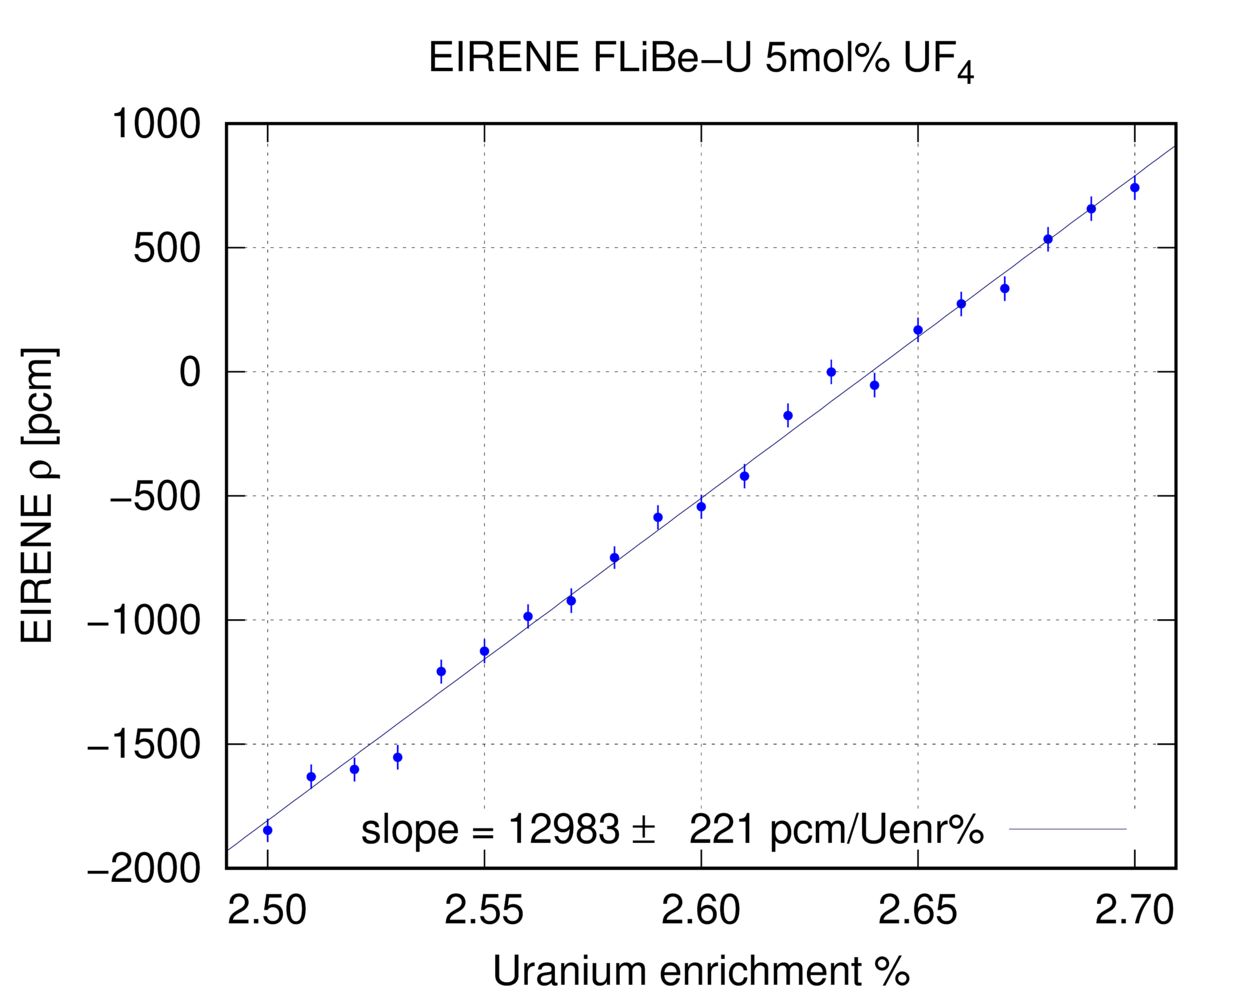
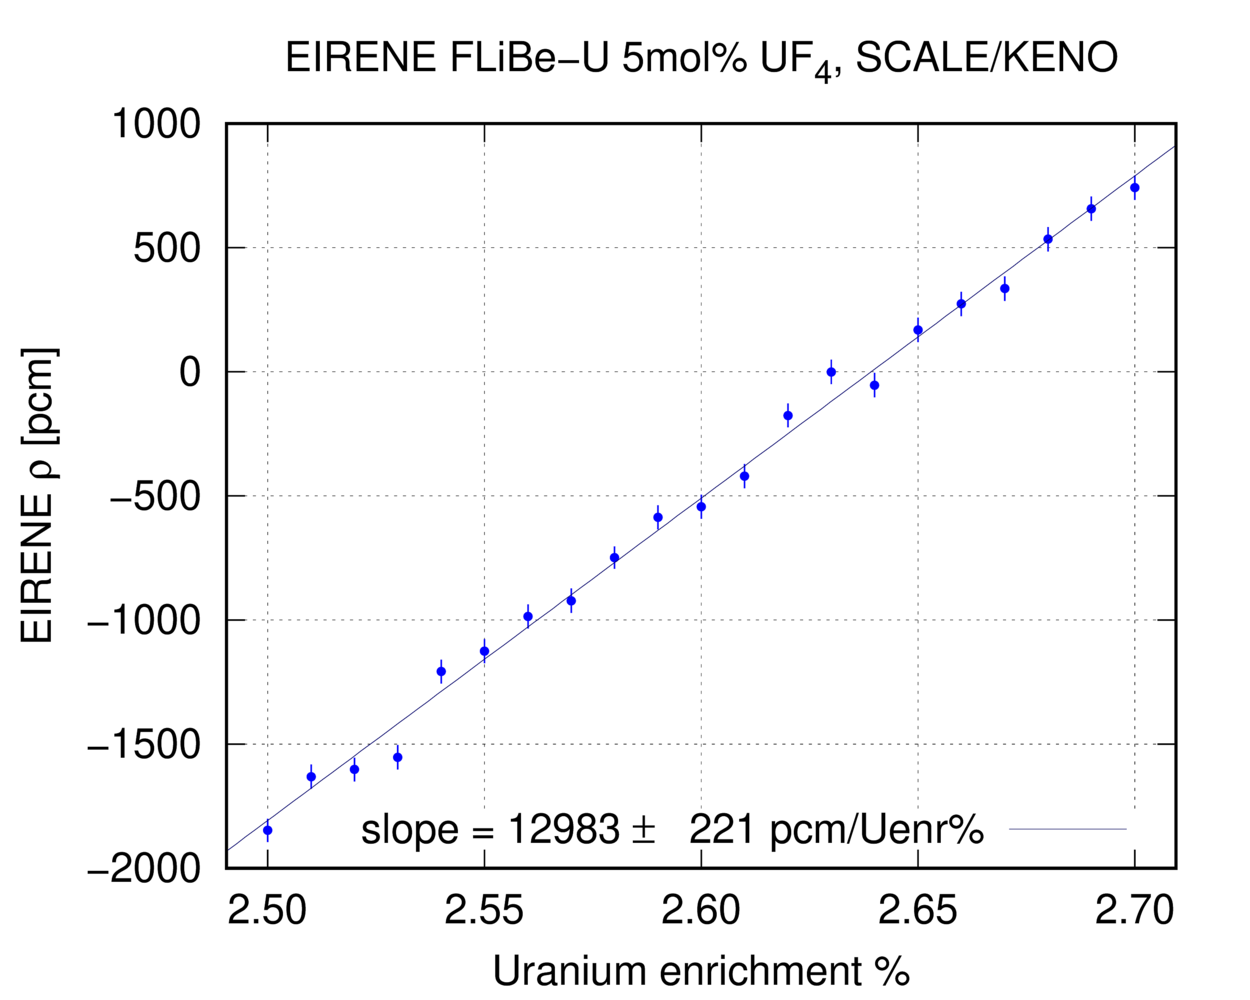
EIRENE

Changed region(s): [[0.2184, 0.031, 0.9048, 0.093]]

diff --git a/EIRENE/10-SHIFT/01-Crit_search/EIRENE-enr.py b/EIRENE/10-SHIFT/01-Crit_search/EIRENE-enr.py
@@ -1,8 +1,8 @@
 #!/bin/env python3
 
+
 """ Example Integral REactor for Nuclear Education (EIRENE)
-Script to calculate Integral Temperature Coefficient of reactivity (ITC) of EIRENE.
-GEometry of the reactor is unchanged.
+Script to find critical enrichment of IRENE
 Ondrej Chvala <ochvala@utk.edu>
 MIT license
 """
@@ -11,7 +11,6 @@ import salts
 import os
 import numpy as np
 
-runSHIFT:bool = False    # Keno or Shift?
 
 def tempK(tempC: float) -> float:
     return tempC + 273.15
@@ -41,25 +40,20 @@ def saltmix(mU: float = 5) -> str:
 #
 
 UF4molpct = 5.0  # UF4 mol % in FLiBe-U
-Uenrpct = 2.650  # Uranium enrichment %
-Uenrichment = Uenrpct / 100.0
 
-flag_shift = ''
-if runSHIFT:
-    flag_shift = '-shift'
+for enrpct in np.linspace(2.5, 2.7, 21):
+    # np.linspace(2.2, 2.4, 11):
+    enrpath = f'enr_{enrpct:5.03f}'
+    if not os.path.isdir(enrpath):
+        os.mkdir(enrpath)
+    os.chdir(enrpath)
 
-for salt_tempC in np.linspace(600, 700, 11):
-    deckpath = f'ITC_{salt_tempC:5.01f}'
-    if not os.path.isdir(deckpath):
-        os.mkdir(deckpath)
-    os.chdir(deckpath)
-
+    Uenrichment = enrpct / 100.0
     s = salts.Salt(saltmix(UF4molpct), Uenrichment)
-    T = tempK(salt_tempC)
-    scale_fuel = s.scale_mat(T, T, 1, 1)
+    scale_fuel = s.scale_mat(923.15, 923.15, 1, 1)
 
-    keno_deck = f'''=csas6{flag_shift} parm=(   )
-EIRENE SCALE/CSAS model, UF4 mol% = {UF4molpct}, U enrichment% = {Uenrpct}, fuel salt {T} K
+    keno_deck = f'''=csas6-shift parm=(   )
+EIRENE SCALE/CSAS model, UF4 mol% = {UF4molpct}, U enrichment% = {enrpct}
 ce_v7.1
 
 read comp
@@ -73,25 +67,25 @@ wtptHastelloy 2 8.89 5
          26000 5.0
          14000 1.0
          42000 16.0
-         1.0 {T}
+         1.0 923.15
          28058 67.6 28060 32.4
          24052 100.0
          26056 100.0
          14028 100.0
          42092 14.65 42094 9.19 42095 15.87 42096 16.67 42097 9.58 42098 24.29 42100 9.75 end
 ' SS Shutdown Rods
-    ss316 3 den=2.7 1.0 {T} end
+    ss316 3 den=2.7 1.0 923.15 end
 ' Graphite
-   graphite 4 den=1.84 1.0 {T} end
+   graphite 4 den=1.84 1.0 923.15 end
 ' Stainless Steel SS316
-   ss316 5 den=8.030000 1.0 {T} end
+   ss316 5 den=8.030000 1.0 923.15 end
 ' Helium gas
-   he 6 den=0.0001785 1.0 {T} end
+   he 6 den=0.0001785 1.0 923.15 end
 
 end comp
 
 read parameters
- npg=20000 nsk=50 gen=10050 sig=10e-5
+ npg=10000 nsk=50 gen=10050 sig=50e-5
  htm=no
  fdn=no
  pms=no

diff --git a/EIRENE/10-SHIFT/03-FTC/EIRENE-FTC.py b/EIRENE/10-SHIFT/03-FTC/EIRENE-FTC.py
@@ -1,8 +1,7 @@
 #!/bin/env python3
 
 """ Example Integral REactor for Nuclear Education (EIRENE)
-Script to calculate Integral Temperature Coefficient of reactivity (ITC) of EIRENE.
-GEometry of the reactor is unchanged.
+Script to calculate Fuel Temperature Coefficient of reactivity (FTC) of EIRENE
 Ondrej Chvala <ochvala@utk.edu>
 MIT license
 """
@@ -11,7 +10,7 @@ import salts
 import os
 import numpy as np
 
-runSHIFT:bool = False    # Keno or Shift?
+runSHIFT:bool = True    # Keno or Shift?
 
 def tempK(tempC: float) -> float:
     return tempC + 273.15
@@ -49,7 +48,7 @@ if runSHIFT:
     flag_shift = '-shift'
 
 for salt_tempC in np.linspace(600, 700, 11):
-    deckpath = f'ITC_{salt_tempC:5.01f}'
+    deckpath = f'FTC_{salt_tempC:5.01f}'
     if not os.path.isdir(deckpath):
         os.mkdir(deckpath)
     os.chdir(deckpath)
@@ -73,20 +72,20 @@ wtptHastelloy 2 8.89 5
          26000 5.0
          14000 1.0
          42000 16.0
-         1.0 {T}
+         1.0 923.15
          28058 67.6 28060 32.4
          24052 100.0
          26056 100.0
          14028 100.0
          42092 14.65 42094 9.19 42095 15.87 42096 16.67 42097 9.58 42098 24.29 42100 9.75 end
 ' SS Shutdown Rods
-    ss316 3 den=2.7 1.0 {T} end
+    ss316 3 den=2.7 1.0 923.15 end
 ' Graphite
-   graphite 4 den=1.84 1.0 {T} end
+   graphite 4 den=1.84 1.0 923.15 end
 ' Stainless Steel SS316
-   ss316 5 den=8.030000 1.0 {T} end
+   ss316 5 den=8.030000 1.0 923.15 end
 ' Helium gas
-   he 6 den=0.0001785 1.0 {T} end
+   he 6 den=0.0001785 1.0 923.15 end
 
 end comp
 

diff --git a/EIRENE/00-KENO/03-FTC/EIRENE-FTC.py b/EIRENE/00-KENO/03-FTC/EIRENE-FTC.py
@@ -10,7 +10,7 @@ import salts
 import os
 import numpy as np
 
-runSHIFT:bool = True    # Keno or Shift?
+runSHIFT:bool = False    # Keno or Shift?
 
 def tempK(tempC: float) -> float:
     return tempC + 273.15

diff --git a/EIRENE/10-SHIFT/04-ITC/EIRENE-ITC.py b/EIRENE/10-SHIFT/04-ITC/EIRENE-ITC.py
@@ -11,7 +11,7 @@ import salts
 import os
 import numpy as np
 
-runSHIFT:bool = False    # Keno or Shift?
+runSHIFT:bool = True    # Keno or Shift?
 
 def tempK(tempC: float) -> float:
     return tempC + 273.15

diff --git a/EIRENE/10-SHIFT/01-Crit_search/salts.py b/EIRENE/10-SHIFT/01-Crit_search/salts.py
@@ -1,0 +1,1 @@
+../../../util/salts.py

diff --git a/EIRENE/10-SHIFT/03-FTC/salts.py b/EIRENE/10-SHIFT/03-FTC/salts.py
@@ -1,0 +1,1 @@
+../../../util/salts.py

diff --git a/EIRENE/10-SHIFT/04-ITC/salts.py b/EIRENE/10-SHIFT/04-ITC/salts.py
@@ -1,0 +1,1 @@
+../../../util/salts.py
